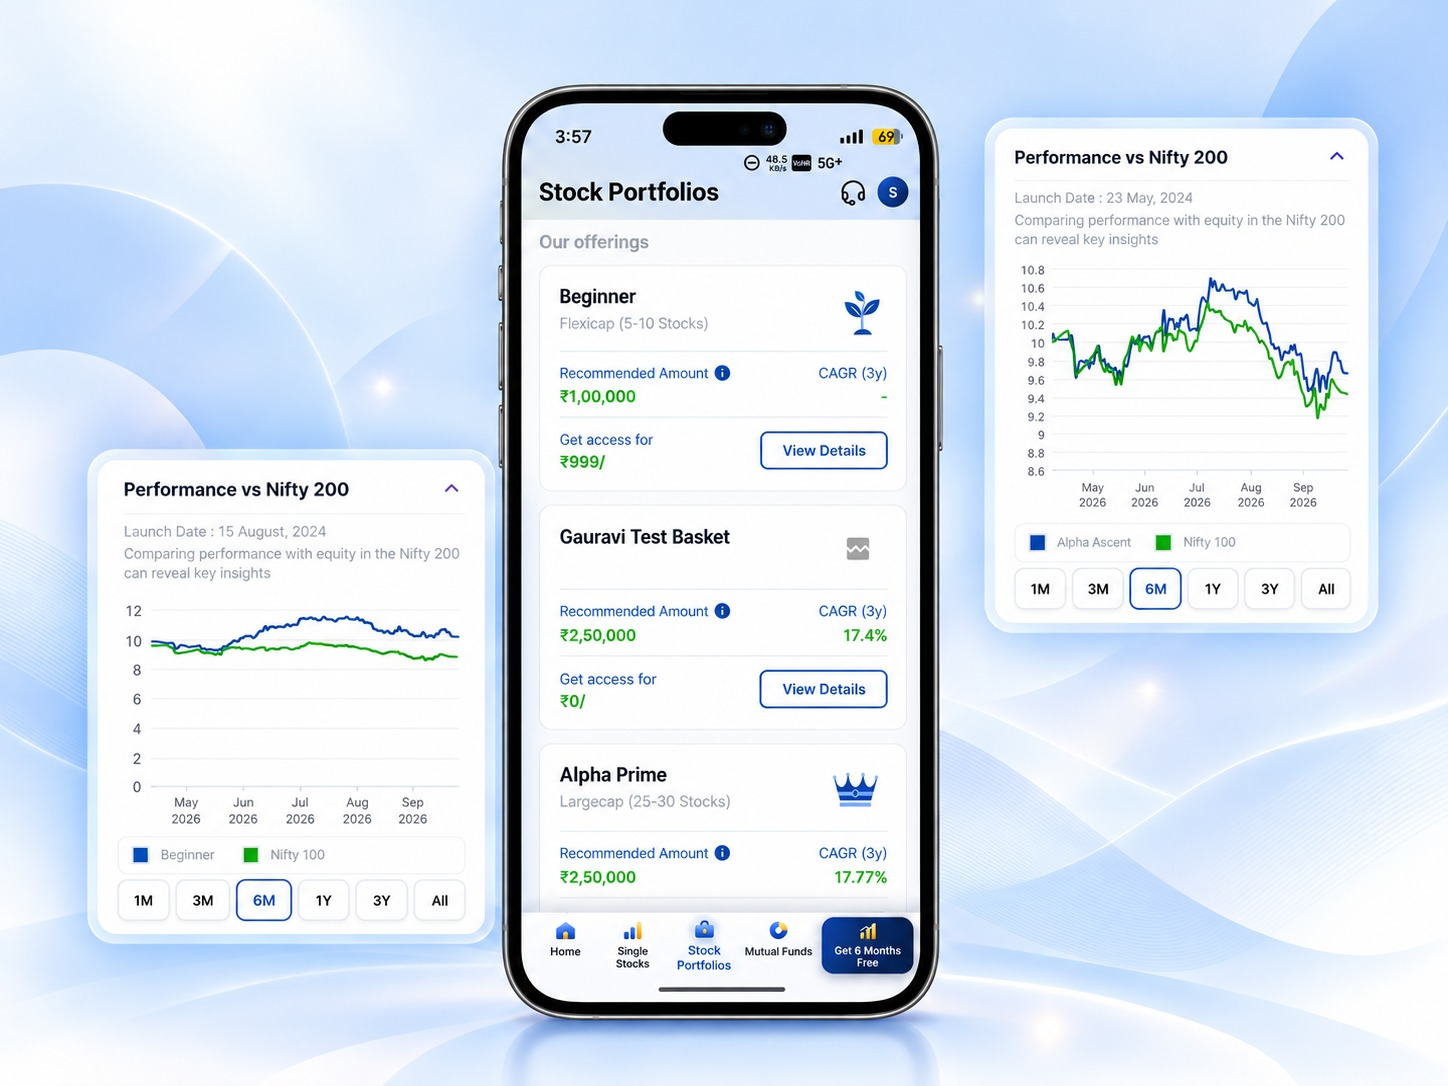
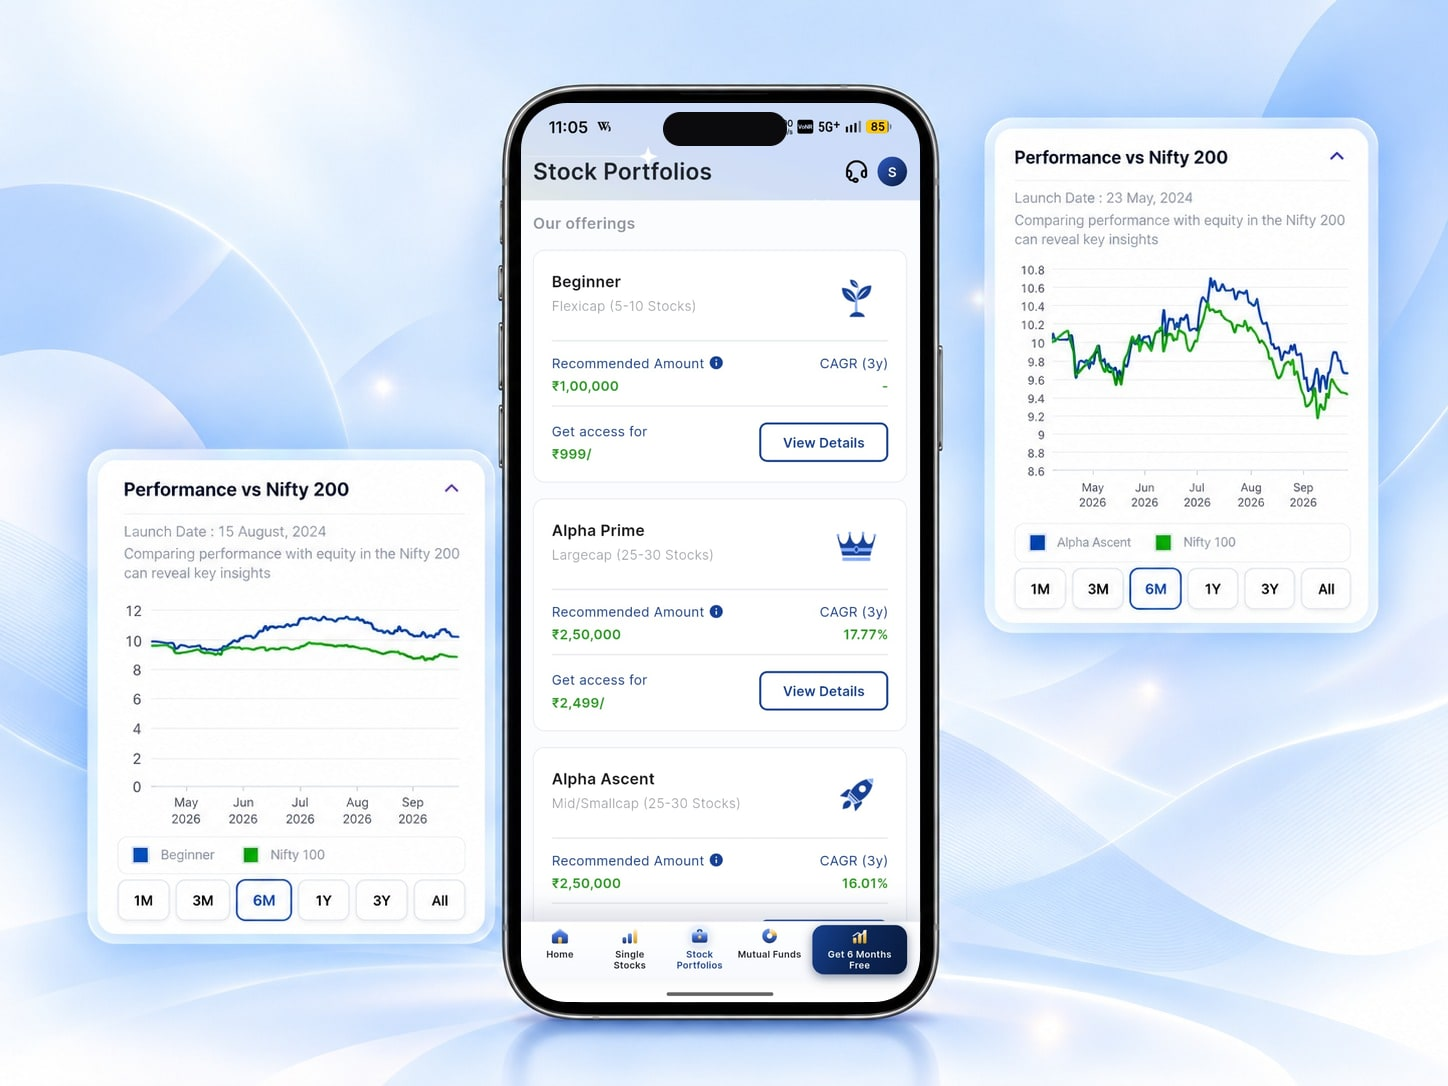
feat: new portfolio card screenshot, real app download QR in the footer

diff --git a/myadvisoralpha-web/src/components/layout/QrDownloadCard.tsx b/myadvisoralpha-web/src/components/layout/QrDownloadCard.tsx
@@ -1,5 +1,9 @@
 import React from "react";
+import Image from "next/image";
 import { Smartphone } from "lucide-react";
+
+// Opens https://link.advisoralpha.in/JUfSaCf5k6b, the app download link
+const DOWNLOAD_QR_SRC = "/assets/app/download-qr.png";
 
 export default function QrDownloadCard() {
   return (
@@ -14,81 +18,15 @@ export default function QrDownloadCard() {
         </span>
       </div>
 
-      {/* Pure High-Fidelity SVG QR Matrix */}
-      <div className="relative p-2 bg-neutral-50 rounded-2xl border border-neutral-200 shadow-inner flex items-center justify-center">
-        <svg
-          viewBox="0 0 160 160"
-          className="w-36 h-36"
-          fill="currentColor"
-          xmlns="http://www.w3.org/2000/svg"
-        >
-          {/* QR Corner Square Top-Left */}
-          <rect x="10" y="10" width="40" height="40" rx="6" fill="#081026" />
-          <rect x="16" y="16" width="28" height="28" rx="3" fill="#FFFFFF" />
-          <rect x="22" y="22" width="16" height="16" rx="2" fill="#081026" />
-
-          {/* QR Corner Square Top-Right */}
-          <rect x="110" y="10" width="40" height="40" rx="6" fill="#081026" />
-          <rect x="116" y="16" width="28" height="28" rx="3" fill="#FFFFFF" />
-          <rect x="122" y="22" width="16" height="16" rx="2" fill="#081026" />
-
-          {/* QR Corner Square Bottom-Left */}
-          <rect x="10" y="110" width="40" height="40" rx="6" fill="#081026" />
-          <rect x="16" y="116" width="28" height="28" rx="3" fill="#FFFFFF" />
-          <rect x="22" y="122" width="16" height="16" rx="2" fill="#081026" />
-
-          {/* Data Pattern Modules */}
-          <rect x="60" y="15" width="8" height="8" rx="1.5" fill="#081026" />
-          <rect x="75" y="15" width="8" height="8" rx="1.5" fill="#081026" />
-          <rect x="90" y="15" width="8" height="8" rx="1.5" fill="#081026" />
-          <rect x="60" y="30" width="8" height="8" rx="1.5" fill="#081026" />
-          <rect x="90" y="30" width="8" height="8" rx="1.5" fill="#081026" />
-
-          <rect x="15" y="60" width="8" height="8" rx="1.5" fill="#081026" />
-          <rect x="30" y="60" width="8" height="8" rx="1.5" fill="#081026" />
-          <rect x="45" y="60" width="8" height="8" rx="1.5" fill="#081026" />
-          <rect x="60" y="60" width="8" height="8" rx="1.5" fill="#081026" />
-          <rect x="75" y="60" width="8" height="8" rx="1.5" fill="#081026" />
-          <rect x="105" y="60" width="8" height="8" rx="1.5" fill="#081026" />
-          <rect x="120" y="60" width="8" height="8" rx="1.5" fill="#081026" />
-          <rect x="135" y="60" width="8" height="8" rx="1.5" fill="#081026" />
-
-          <rect x="15" y="75" width="8" height="8" rx="1.5" fill="#081026" />
-          <rect x="45" y="75" width="8" height="8" rx="1.5" fill="#081026" />
-          <rect x="105" y="75" width="8" height="8" rx="1.5" fill="#081026" />
-          <rect x="135" y="75" width="8" height="8" rx="1.5" fill="#081026" />
-
-          <rect x="15" y="90" width="8" height="8" rx="1.5" fill="#081026" />
-          <rect x="30" y="90" width="8" height="8" rx="1.5" fill="#081026" />
-          <rect x="60" y="90" width="8" height="8" rx="1.5" fill="#081026" />
-          <rect x="75" y="90" width="8" height="8" rx="1.5" fill="#081026" />
-          <rect x="90" y="90" width="8" height="8" rx="1.5" fill="#081026" />
-          <rect x="120" y="90" width="8" height="8" rx="1.5" fill="#081026" />
-
-          <rect x="60" y="105" width="8" height="8" rx="1.5" fill="#081026" />
-          <rect x="75" y="105" width="8" height="8" rx="1.5" fill="#081026" />
-          <rect x="105" y="105" width="8" height="8" rx="1.5" fill="#081026" />
-          <rect x="135" y="105" width="8" height="8" rx="1.5" fill="#081026" />
-
-          <rect x="60" y="120" width="8" height="8" rx="1.5" fill="#081026" />
-          <rect x="90" y="120" width="8" height="8" rx="1.5" fill="#081026" />
-          <rect x="105" y="120" width="8" height="8" rx="1.5" fill="#081026" />
-          <rect x="120" y="120" width="8" height="8" rx="1.5" fill="#081026" />
-
-          <rect x="75" y="135" width="8" height="8" rx="1.5" fill="#081026" />
-          <rect x="90" y="135" width="8" height="8" rx="1.5" fill="#081026" />
-          <rect x="135" y="135" width="8" height="8" rx="1.5" fill="#081026" />
-
-          {/* Center Brand Badge */}
-          <circle cx="80" cy="80" r="16" fill="#F5BA31" />
-          <path
-            d="M74 83L78 75L82 83M76 81H80M85 76L87 83M83 80H88"
-            stroke="#FFFFFF"
-            strokeWidth="2"
-            strokeLinecap="round"
-            strokeLinejoin="round"
-          />
-        </svg>
+      <div className="relative p-2 bg-white rounded-2xl border border-neutral-200 flex items-center justify-center">
+        <Image
+          src={DOWNLOAD_QR_SRC}
+          alt="QR code to download the MyAdvisorAlpha app"
+          width={160}
+          height={160}
+          unoptimized
+          className="w-40 h-40"
+        />
       </div>
 
       <p className="text-[11px] text-neutral-600 text-center font-medium mt-3 leading-tight">
